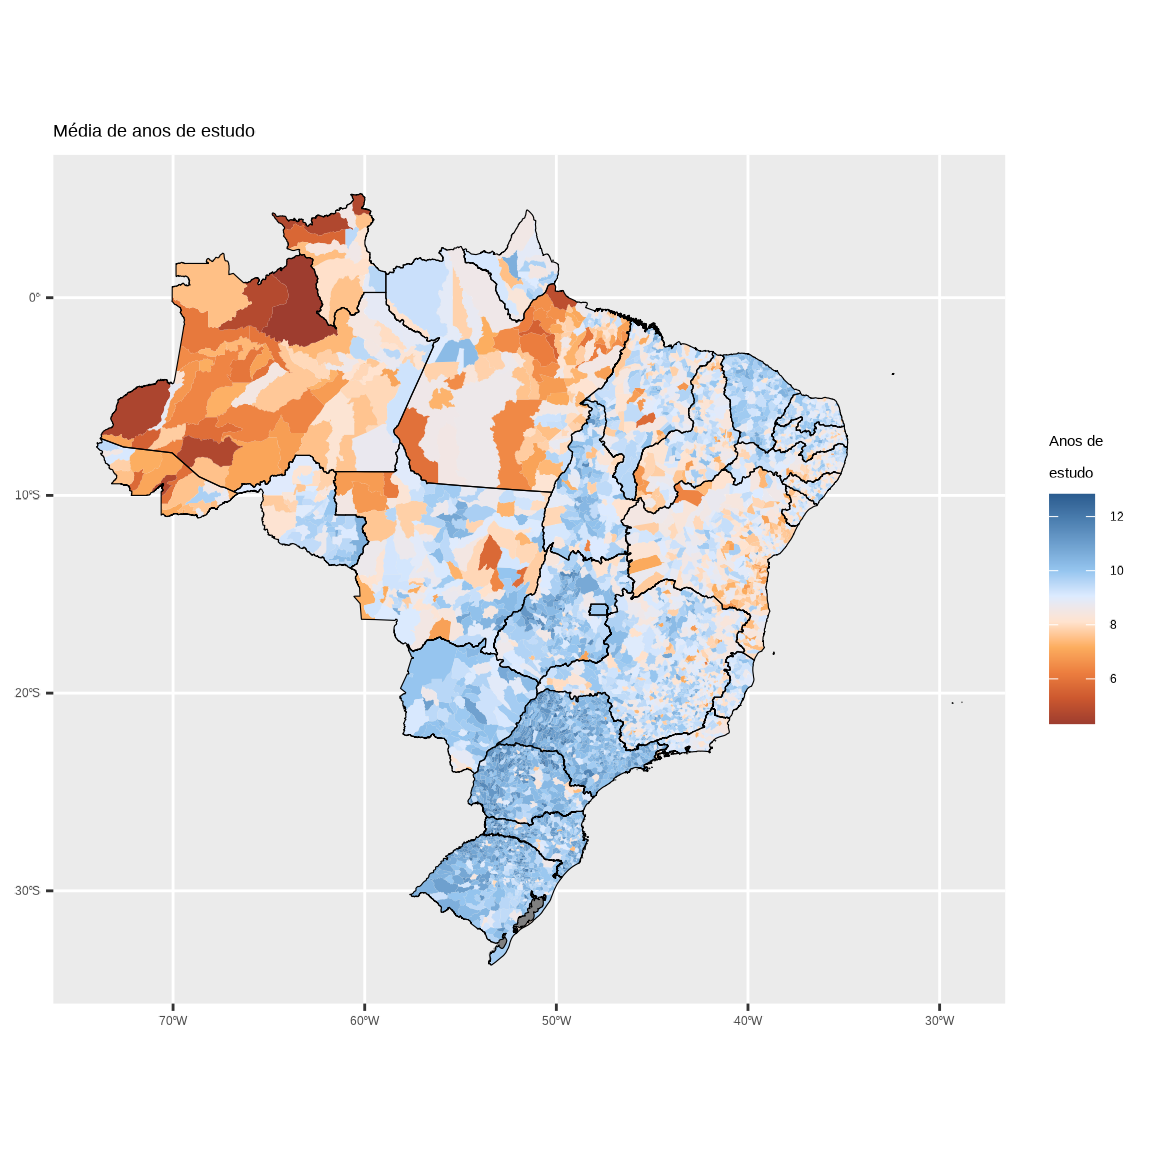
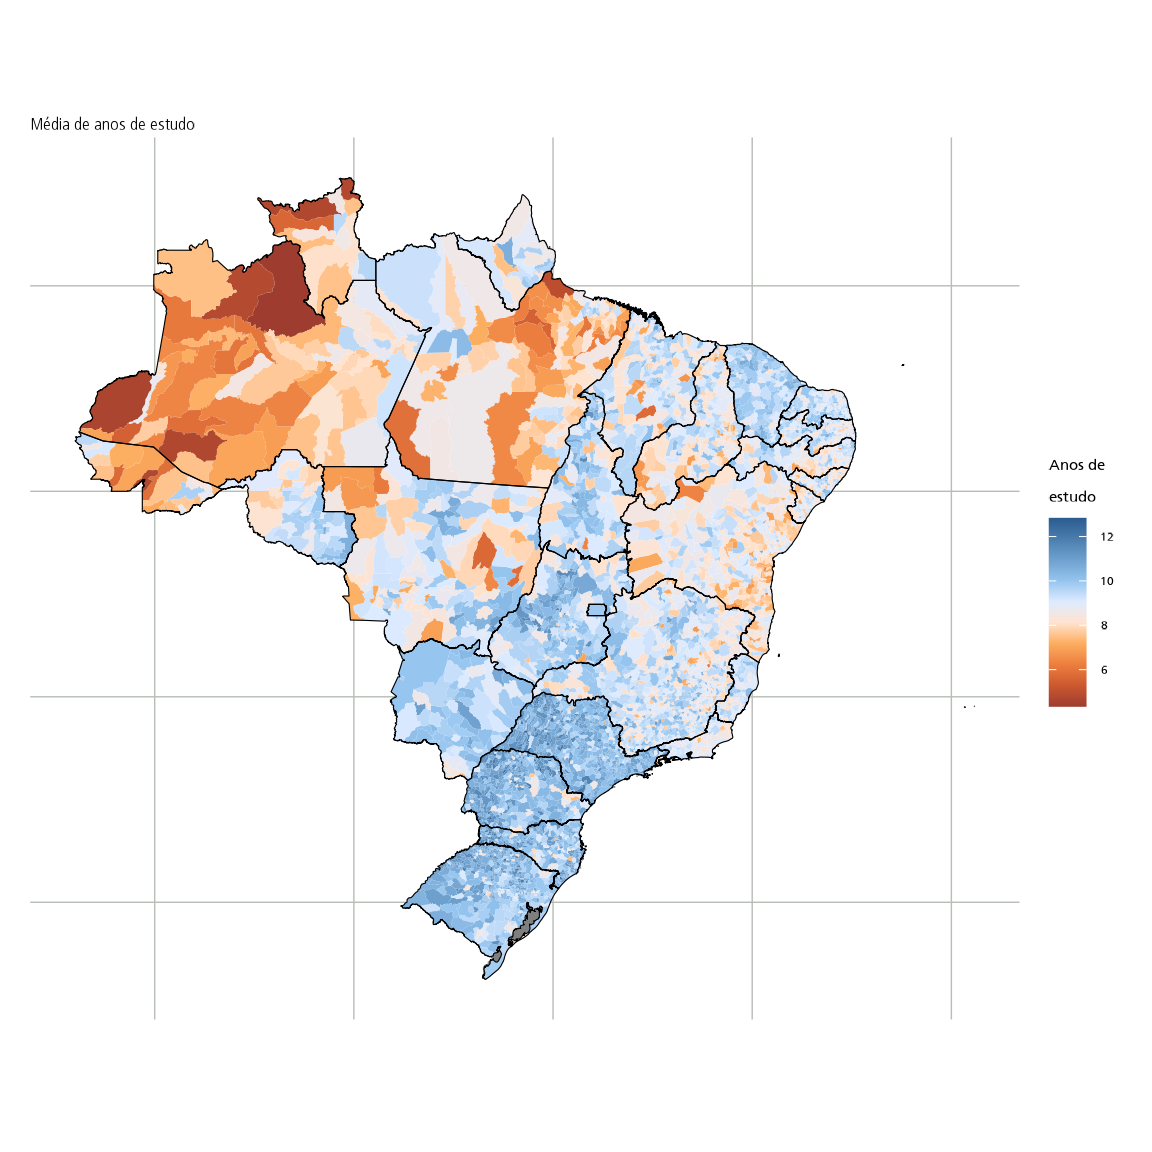
Deploying to gh-pages from @ ipeadata-lab/ipeaplot@47310d8f384299bcd06ea43bf4b68c3dae35edca 🚀

diff --git a/articles/intro_ipeaplot.html b/articles/intro_ipeaplot.html
@@ -71,7 +71,7 @@
   <main id="main" class="col-md-9"><div class="page-header">
       <img src="" class="logo" alt=""><h1>Introdução ao ipeaplot</h1>
             
-            <h4 data-toc-skip class="date">2023-09-11</h4>
+            <h4 data-toc-skip class="date">2023-09-12</h4>
       
       <small class="dont-index">Source: <a href="https://github.com/ipeadata-lab/ipeaplot/blob/HEAD/vignettes/intro_ipeaplot.Rmd" class="external-link"><code>vignettes/intro_ipeaplot.Rmd</code></a></small>
       <div class="d-none name"><code>intro_ipeaplot.Rmd</code></div>
@@ -133,6 +133,14 @@ seguir, vamos utilizar os dados <code>mtcars</code> do R.</p>
 <span><span class="kw"><a href="https://rdrr.io/r/base/library.html" class="external-link">library</a></span><span class="op">(</span><span class="va"><a href="https://github.com/ipeaGIT/geobr" class="external-link">geobr</a></span><span class="op">)</span></span>
 <span><span class="kw"><a href="https://rdrr.io/r/base/library.html" class="external-link">library</a></span><span class="op">(</span><span class="va"><a href="https://patchwork.data-imaginist.com" class="external-link">patchwork</a></span><span class="op">)</span></span>
 <span></span>
+<span><span class="co"># Function that aligns color palettes</span></span>
+<span><span class="va">pal</span> <span class="op">&lt;-</span> <span class="kw">function</span><span class="op">(</span><span class="va">col</span>, <span class="va">border</span> <span class="op">=</span> <span class="st">"light gray"</span><span class="op">)</span> <span class="op">{</span></span>
+<span>  <span class="va">n</span> <span class="op">&lt;-</span> <span class="fu"><a href="https://rdrr.io/r/base/length.html" class="external-link">length</a></span><span class="op">(</span><span class="va">col</span><span class="op">)</span></span>
+<span>  <span class="fu"><a href="https://rdrr.io/r/graphics/plot.default.html" class="external-link">plot</a></span><span class="op">(</span><span class="fl">0</span>, <span class="fl">0</span>, type<span class="op">=</span><span class="st">"n"</span>, xlim <span class="op">=</span> <span class="fu"><a href="https://rdrr.io/r/base/c.html" class="external-link">c</a></span><span class="op">(</span><span class="fl">0</span>, <span class="fl">1</span><span class="op">)</span>, ylim <span class="op">=</span> <span class="fu"><a href="https://rdrr.io/r/base/c.html" class="external-link">c</a></span><span class="op">(</span><span class="fl">0</span>, <span class="fl">1</span><span class="op">)</span>, axes <span class="op">=</span> <span class="cn">FALSE</span>,</span>
+<span>       xlab <span class="op">=</span> <span class="st">""</span>, ylab <span class="op">=</span> <span class="st">""</span><span class="op">)</span></span>
+<span>  <span class="fu"><a href="https://rdrr.io/r/graphics/rect.html" class="external-link">rect</a></span><span class="op">(</span><span class="fl">0</span><span class="op">:</span><span class="op">(</span><span class="va">n</span><span class="op">-</span><span class="fl">1</span><span class="op">)</span><span class="op">/</span><span class="va">n</span>, <span class="fl">0</span>, <span class="fl">1</span><span class="op">:</span><span class="va">n</span><span class="op">/</span><span class="va">n</span>, <span class="fl">1</span>, col <span class="op">=</span> <span class="va">col</span>, border <span class="op">=</span> <span class="va">border</span><span class="op">)</span></span>
+<span><span class="op">}</span></span>
+<span></span>
 <span><span class="co"># Load mtcars dataset</span></span>
 <span><span class="fu"><a href="https://rdrr.io/r/utils/data.html" class="external-link">data</a></span><span class="op">(</span><span class="va">mtcats</span><span class="op">)</span></span></code></pre></div>
 <p>A figura baixo ilustra de maneira geral uma figura ggplot em seu
@@ -168,9 +176,9 @@ diversas outras opções. Isso inclui tanto paletas com cores sequenciais
 <code>c("Blue", "Green", "Orange", "Pink")</code>, quanto paletes com
 cores divergentes <code>c("Red-Blue", "Orange-Blue")</code>.</p>
 <p><strong>Cores sequenciais:</strong>
-<img src="intro_ipeaplot_files/figure-html/unnamed-chunk-5-1.png" width="100%"><img src="intro_ipeaplot_files/figure-html/unnamed-chunk-5-2.png" width="100%"><img src="intro_ipeaplot_files/figure-html/unnamed-chunk-5-3.png" width="100%"></p>
+<img src="intro_ipeaplot_files/figure-html/unnamed-chunk-5-1.png" width="100%"></p>
 <p><strong>Cores divergentes:</strong>
-<img src="intro_ipeaplot_files/figure-html/unnamed-chunk-6-1.png" width="100%"><img src="intro_ipeaplot_files/figure-html/unnamed-chunk-6-2.png" width="100%"><img src="intro_ipeaplot_files/figure-html/unnamed-chunk-6-3.png" width="100%"></p>
+<img src="intro_ipeaplot_files/figure-html/unnamed-chunk-6-1.png" width="100%"></p>
 <p>Para usar as paletas de cores, basta adicionar uma das funções na
 construção da sua figura com <code>ggplot2</code>:</p>
 <div class="sourceCode" id="cb4"><pre class="downlit sourceCode r">
@@ -330,7 +338,8 @@ município é a nossa variável-chave para fazer o merge.</p>
 <span>             <span class="fu"><a href="https://ggplot2.tidyverse.org/reference/ggsf.html" class="external-link">geom_sf</a></span><span class="op">(</span>data <span class="op">=</span> <span class="va">uf</span>, color <span class="op">=</span> <span class="st">"black"</span>, fill <span class="op">=</span> <span class="cn">NA</span><span class="op">)</span> <span class="op">+</span></span>
 <span>             <span class="fu"><a href="https://ggplot2.tidyverse.org/reference/labs.html" class="external-link">ggtitle</a></span><span class="op">(</span><span class="st">"Média de anos de estudo"</span><span class="op">)</span> <span class="op">+</span></span>
 <span>             <span class="fu"><a href="../reference/scale_fill_ipea.html">scale_fill_ipea</a></span><span class="op">(</span>palette <span class="op">=</span> <span class="st">'Orange-Blue'</span>, </span>
-<span>                             name<span class="op">=</span><span class="st">'Anos de\nestudo'</span><span class="op">)</span> <span class="co"># + theme_ipea()</span></span>
+<span>                             name<span class="op">=</span><span class="st">'Anos de\nestudo'</span><span class="op">)</span> <span class="op">+</span> </span>
+<span>             <span class="fu"><a href="../reference/theme_ipea.html">theme_ipea</a></span><span class="op">(</span>axis_lines <span class="op">=</span> <span class="st">'none'</span>, include_ticks <span class="op">=</span> <span class="cn">F</span>, axis_values <span class="op">=</span> <span class="cn">F</span><span class="op">)</span></span>
 <span>   </span>
 <span></span>
 <span><span class="va">fig_map</span></span></code></pre></div>

diff --git a/articles/cookbook.html b/articles/cookbook.html
@@ -71,7 +71,7 @@
   <main id="main" class="col-md-9"><div class="page-header">
       <img src="" class="logo" alt=""><h1>Comparativo ipeaplot</h1>
             
-            <h4 data-toc-skip class="date">2023-09-11</h4>
+            <h4 data-toc-skip class="date">2023-09-12</h4>
       
       <small class="dont-index">Source: <a href="https://github.com/ipeadata-lab/ipeaplot/blob/HEAD/vignettes/cookbook.Rmd" class="external-link"><code>vignettes/cookbook.Rmd</code></a></small>
       <div class="d-none name"><code>cookbook.Rmd</code></div>
